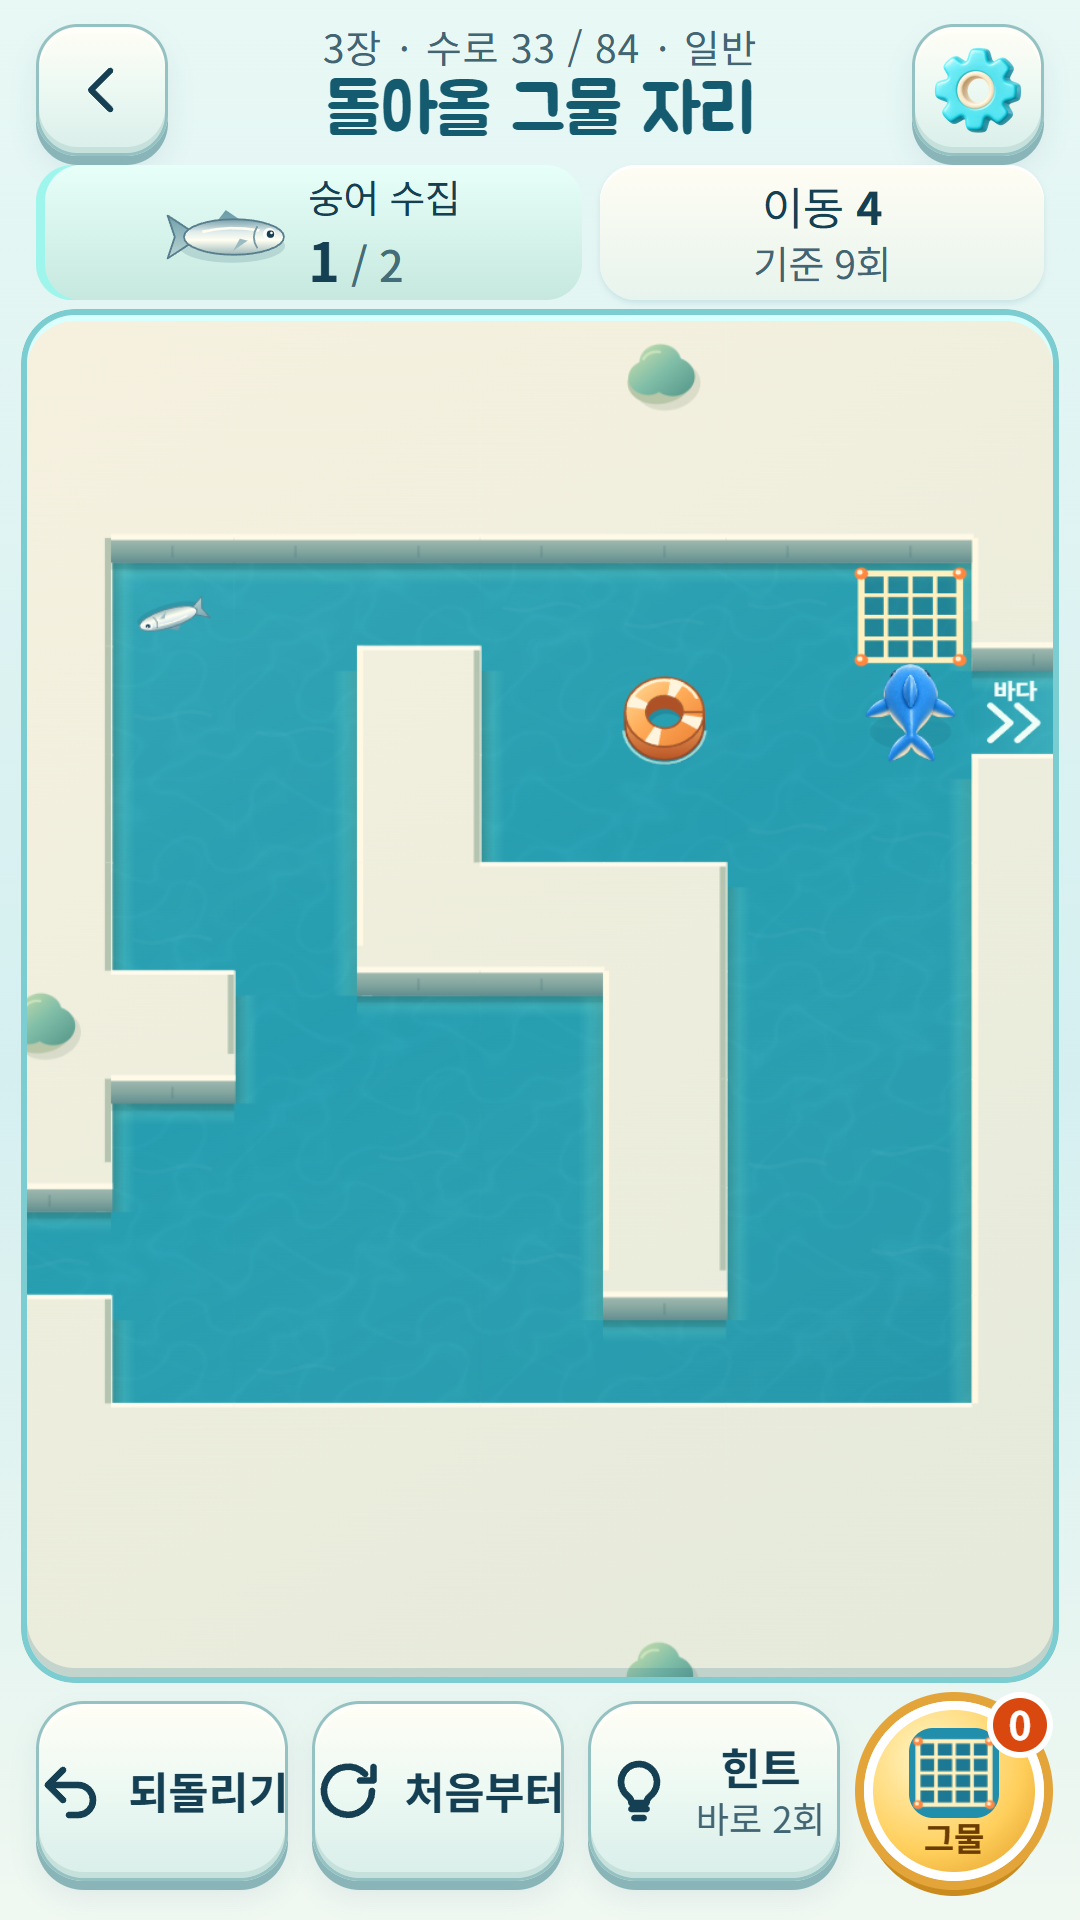
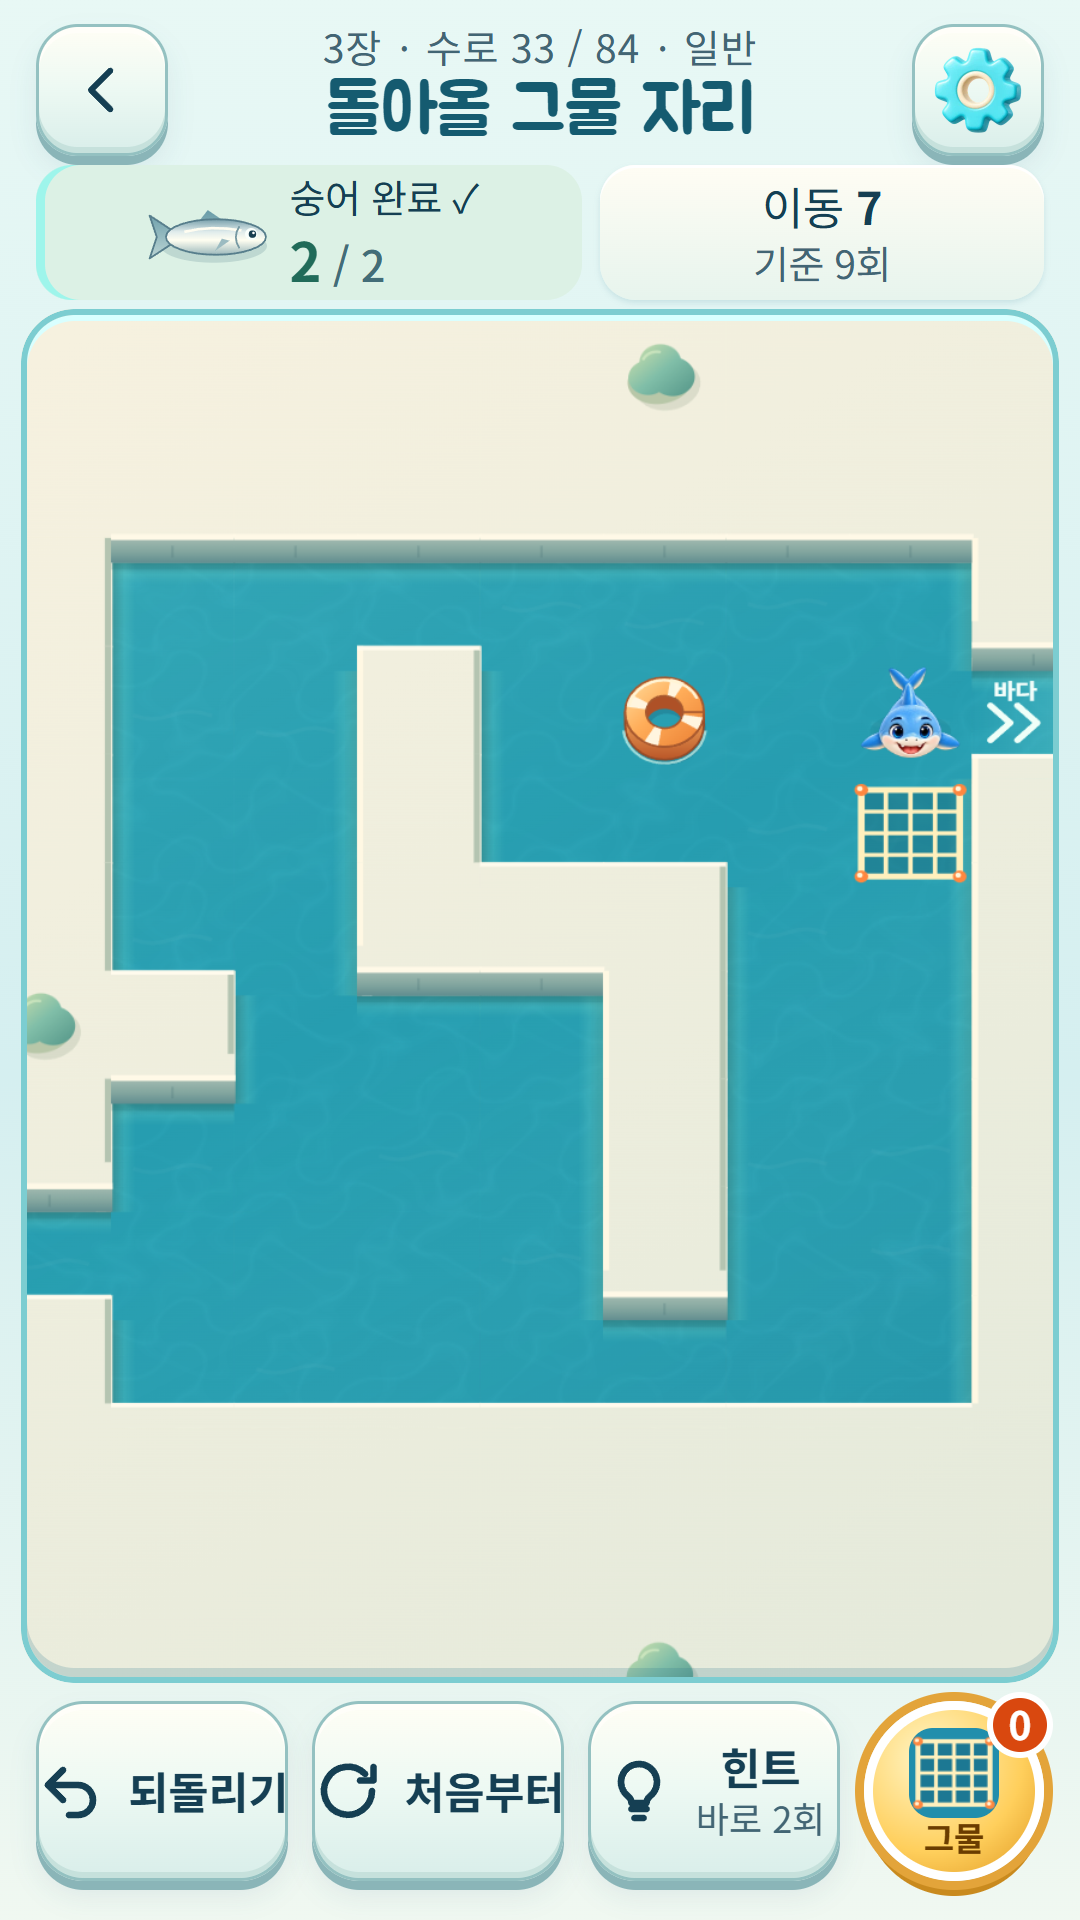
스토어 스크린샷 재촬영: 별 3개 클리어·친 그물 장면 바로잡기
- 직전 커밋에서 풀이기 인자(숭어 전부 수집)를 잘못 빼 클리어 장면이 별 1개로 찍힌 것을 되돌림
- 그물 장면은 그물을 치는 7번째 이동까지 재생해 친 그물이 보이게 함
- 출시용 build:web 결과로 6장 다시 촬영, STORE.md에 촬영 전 build:web 필요 기록

diff --git a/tools/shots.js b/tools/shots.js
@@ -19,13 +19,13 @@ const PORT = 9335;
 
 // Each scene: progress to store, then a script run on the title screen. `$`, sleep, tap(x, y), swipe(dir), placed are available.
 // Saves are keyed by LEVELS index (data-i); done(n) clears the first n canals in play order, before(i) every canal ahead of i.
-// Routes come from the solver on the current boards under the current net rule (set nets stay), so a redesigned canal never leaves a broken scene.
+// Routes come from the solver on the current boards (set nets stay), so a redesigned canal never leaves a broken scene.
 const E = require('../src/engine.js');
 const { LEVELS, STORY_ORDER, STORY_POSITION } = require('../src/levels.js');
 const done = n => Object.fromEntries(STORY_ORDER.slice(0, n).map((i, k) => [i, k % 5 === 3 ? 2 : 3]));
 const before = i => done(STORY_POSITION[i]);
 const route = (i, k = Infinity) => {
-  const g = E.parseLevel(LEVELS[i]), p = E.plan(g, g.start, 0, new Set(), g.nets);
+  const g = E.parseLevel(LEVELS[i]), p = E.plan(g, g.start, 0, new Set(), g.nets, true);
   return p.steps.slice(0, k).map(step => ({ dir: step.dir, nets: step.nets.map(n => [n % g.w, Math.floor(n / g.w)]) }));
 };
 const play = steps => `for (const s of ${JSON.stringify(steps)}) {
@@ -38,7 +38,7 @@ const scenes = [
   { name: '1-title', save: { best: done(30), last: STORY_ORDER[30], owned: ['basic', 'sakura', 'wave'], skin: 'wave' }, run: `` },
   { name: '2-jets', save: { best: before(jets), last: jets }, run: open(jets) + play(route(jets, 3)) + `
     $('hintBtn').click(); await sleep(900);` },
-  { name: '3-nets', save: { best: before(nets), last: nets }, run: open(nets) + play(route(nets, 4)) },
+  { name: '3-nets', save: { best: before(nets), last: nets }, run: open(nets) + play(route(nets, 7)) },
   { name: '4-clear', save: { best: before(clear), last: clear }, run: open(clear) + play(route(clear)) + `
     await sleep(1200);` },
   { name: '5-sluice', save: { best: before(sluice), last: sluice }, run: open(sluice) + play(route(sluice, 3)) },

diff --git a/docs/STORE.md b/docs/STORE.md
@@ -83,7 +83,7 @@
 | `5-sluice.png` | 6장 수문 시설(입체 스위치·수문·구조정) | 1080×1920 |
 | `6-chapters.png` | 수로 선택 시트(3장 지역 그림과 수로 카드) | 1080×1920 |
 
-스크린샷 순서 추천: 1-title → 2-jets(힌트) → 3-nets(그물) → 4-clear(별 3개) → 5-sluice → 6-chapters. 2026-10-08에 72개·6장·그물 고정 규칙 기준으로 다시 만들었다(그래픽 이미지 문구도 숫자 없이 '매일 새 구조작전 · 끝없는 자유 수로'). 장면은 수로 위치와 풀이기 해법으로 정해 판이 바뀌어도 깨지지 않는다. 2026-10-22 프로덕션 1.9 기준(입체 시점·새 메인·결과창·수로 선택 시트)으로 다시 만들어 스토어 등록정보 휴대전화 스크린샷을 교체했다. 이때 `tools/shots.js`의 해법을 현재 그물 규칙(친 그물 고정)으로 바꿔 그물 장면에 친 그물이 보이게 했다. 2026-10-02 리디자인 이전의 `*-sos.jpg`·7~9번 JPG는 삭제했다(git 이력에 남음).
+스크린샷 순서 추천: 1-title → 2-jets(힌트) → 3-nets(그물) → 4-clear(별 3개) → 5-sluice → 6-chapters. 2026-10-08에 72개·6장·그물 고정 규칙 기준으로 다시 만들었다(그래픽 이미지 문구도 숫자 없이 '매일 새 구조작전 · 끝없는 자유 수로'). 장면은 수로 위치와 풀이기 해법으로 정해 판이 바뀌어도 깨지지 않는다. 2026-10-22 프로덕션 1.9 기준(입체 시점·새 메인·결과창·수로 선택 시트)으로 다시 만들어 스토어 등록정보 휴대전화 스크린샷을 교체했다. 이때 그물 장면은 해법의 그물 설치 이동(7번째)까지 재생해 친 그물이 보이게 했다. `tools/shots.js`는 출시용 `npm run build:web` 결과로 찍어야 한다(Pages 배포 스크립트가 `www/`를 개발 빌드로 바꾸므로 배포 뒤에는 다시 `build:web`). 2026-10-02 리디자인 이전의 `*-sos.jpg`·7~9번 JPG는 삭제했다(git 이력에 남음).
 이미지는 저장된 진행 상태를 넣은 실제 브라우저 화면이며 신규 사용자 시험 결과가 아니다. 게임 화면이 바뀌면 `npm run build:web && node tools/shots.js`로 다시 만든다(이 PC에서는 `BROWSER` 환경 변수로 Chrome 경로 지정).
 
 ## 콘텐츠 등급 설문 (IARC) 답변 가이드
